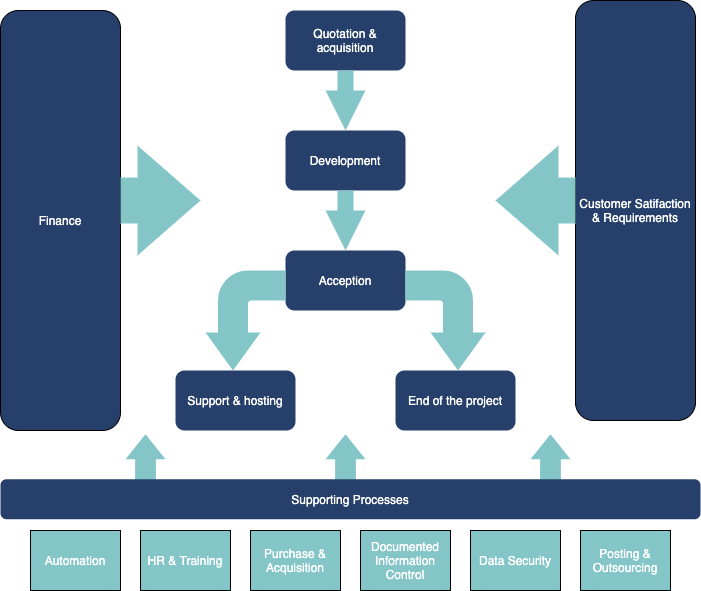
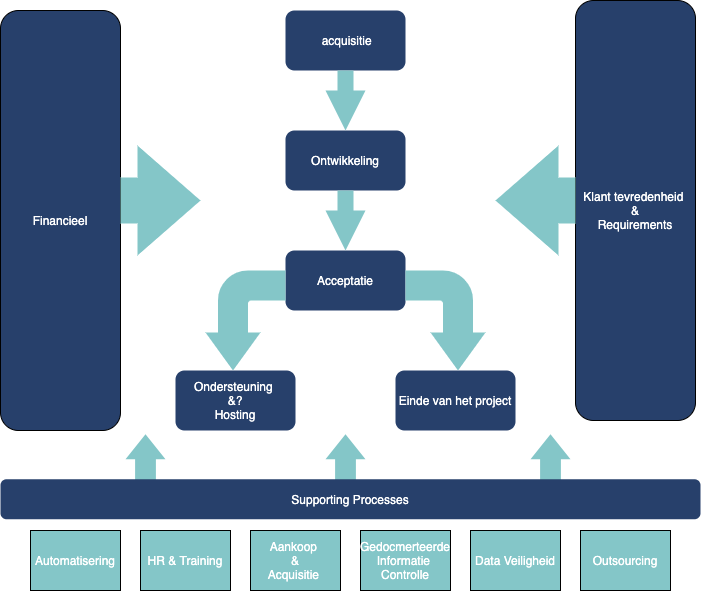
Process Flow naar NL vertaald, Nog nakijken

diff --git a/Chapters/0101-Opdrachtgever.tex b/Chapters/0101-Opdrachtgever.tex
@@ -50,7 +50,7 @@ We streven ernaar om veilige en hoogwaardige software diensten te leveren die wa
 \section{Werkwijze}\label{sec:werkwijze}
 Zoals eerder gemeld werkt EagleScience op projectbasis met ontwikkelaars in meerdere teams. Er wordt geprobeert "full scrum" te werken waarbij de requirements van de klant centraal staan. Als een project wordt aangenomen door het managementteam dan wordt deze in sprints in samenspraak met de klant ontwikkeld. De klant wordt nauw betrokken bij het verloop van de ontwikkeling door het geven van demo's aan het einde van iedere sprint. Hier wordt gemeten hoe de applicatie zich gedraagt met betrekking tot de requirements van de klant. Dit is ook het moment dat er feedback gegeven wordt en waar nodig gestuurd kan worden in het verdere verloop. Op het moment dat er een applicatie klaar is wordt de software al dan niet overgedragen aan de klant of doorgegeven aan support en hosting die verantwoordelijk zijn voor de daadwerkelijke hosting van de software. (figuur~\ref{fig:Project Process})
 
-%TODO: Figuur in NL vertalen
+%TODO: Vertaling checken
 \begin{figure}[bth]
 \myfloatalign
 \includegraphics[width=10cm]{gfx/ProcessFlow}
